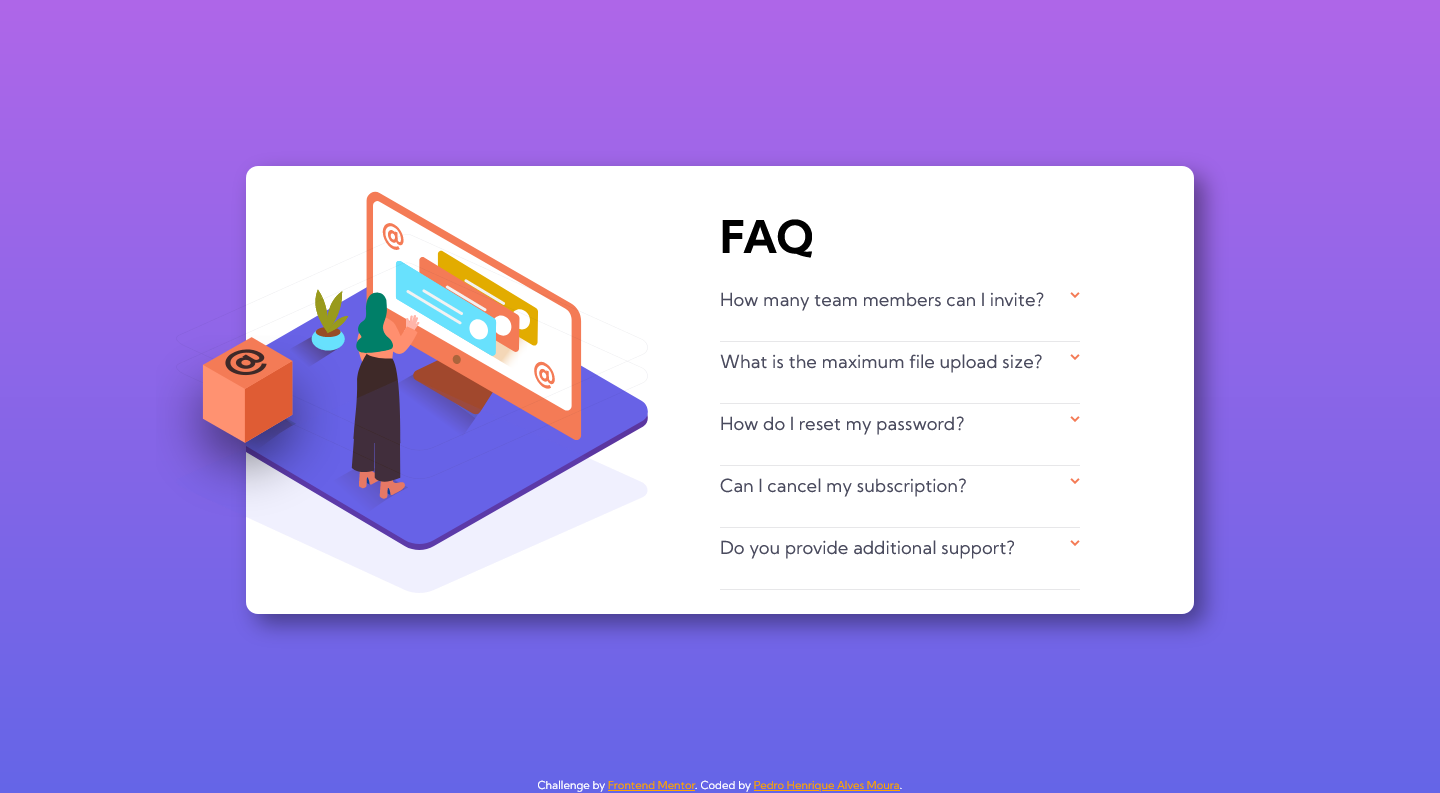
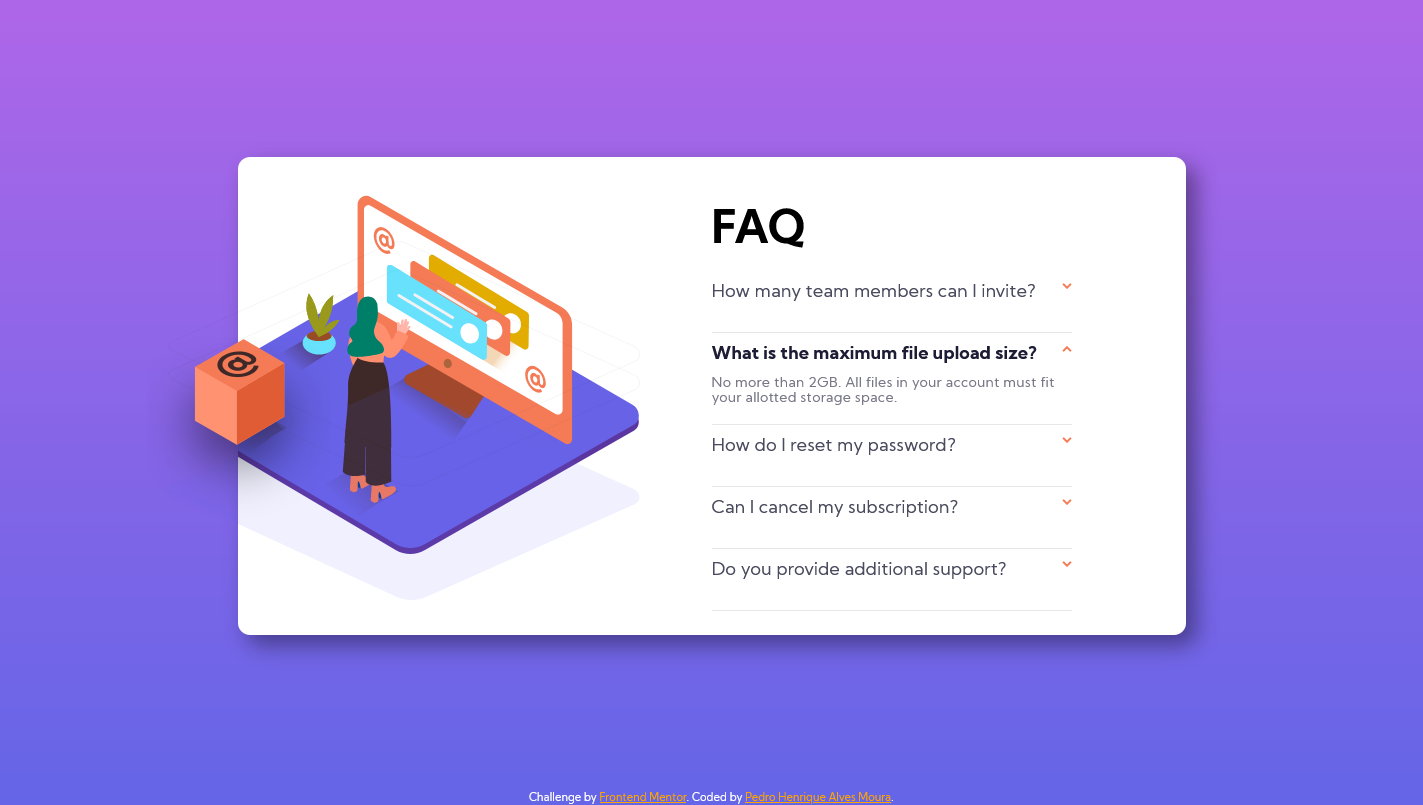
Adding the rotate effect on the arrow image

diff --git a/Javascript, HTML & CSS/faq-accordion-card-main/.history/css/style_20210613081340.css b/Javascript, HTML & CSS/faq-accordion-card-main/.history/css/style_20210613081340.css
@@ -25,7 +25,6 @@
     body {
         background: 
         linear-gradient(to bottom, var(--soft-violet), var(--soft-blue)) no-repeat;
-        background-size: cover;
         box-sizing: border-box;
         font-family: "Kumbh Sans", sans-serif;
     }
@@ -105,6 +104,10 @@
     .arrow {
         float: right;
     } 
+
+    label:hover .arrow {
+        transform: rotate(180deg);
+    }
     
 
     input[type="checkbox"] {        
@@ -132,10 +135,6 @@
         height: 30px;
         opacity: 1;
         transition: .3s;
-    }
-
-    input:checked ~ label .arrow {
-        transform: rotate(180deg);
     }
 
 

diff --git a/Javascript, HTML & CSS/faq-accordion-card-main/.history/css/style_20210613081341.css b/Javascript, HTML & CSS/faq-accordion-card-main/.history/css/style_20210613081341.css
@@ -25,7 +25,6 @@
     body {
         background: 
         linear-gradient(to bottom, var(--soft-violet), var(--soft-blue)) no-repeat;
-        background-size: cover;
         box-sizing: border-box;
         font-family: "Kumbh Sans", sans-serif;
     }
@@ -105,6 +104,10 @@
     .arrow {
         float: right;
     } 
+
+    label:hover .arrow {
+        transform: rotate(180deg);
+    }
     
 
     input[type="checkbox"] {        
@@ -132,10 +135,6 @@
         height: 30px;
         opacity: 1;
         transition: .3s;
-    }
-
-    input:checked ~ label .arrow {
-        transform: rotate(180deg);
     }
 
 

diff --git a/Javascript, HTML & CSS/faq-accordion-card-main/.history/css/style_20210613081313.css b/Javascript, HTML & CSS/faq-accordion-card-main/.history/css/style_20210613081313.css
@@ -25,7 +25,6 @@
     body {
         background: 
         linear-gradient(to bottom, var(--soft-violet), var(--soft-blue)) no-repeat;
-        background-size: cover;
         box-sizing: border-box;
         font-family: "Kumbh Sans", sans-serif;
     }
@@ -105,6 +104,10 @@
     .arrow {
         float: right;
     } 
+
+    label .arrow {
+        
+    }
     
 
     input[type="checkbox"] {        
@@ -132,10 +135,6 @@
         height: 30px;
         opacity: 1;
         transition: .3s;
-    }
-
-    input:checked ~ label .arrow {
-        transform: rotate(180deg);
     }
 
 

diff --git a/Javascript, HTML & CSS/faq-accordion-card-main/.history/css/style_20210613081314.css b/Javascript, HTML & CSS/faq-accordion-card-main/.history/css/style_20210613081314.css
@@ -25,7 +25,6 @@
     body {
         background: 
         linear-gradient(to bottom, var(--soft-violet), var(--soft-blue)) no-repeat;
-        background-size: cover;
         box-sizing: border-box;
         font-family: "Kumbh Sans", sans-serif;
     }
@@ -105,6 +104,10 @@
     .arrow {
         float: right;
     } 
+
+    label .arrow {
+        
+    }
     
 
     input[type="checkbox"] {        
@@ -132,10 +135,6 @@
         height: 30px;
         opacity: 1;
         transition: .3s;
-    }
-
-    input:checked ~ label .arrow {
-        transform: rotate(180deg);
     }
 
 

diff --git a/Javascript, HTML & CSS/faq-accordion-card-main/.history/css/style_20210613081320.css b/Javascript, HTML & CSS/faq-accordion-card-main/.history/css/style_20210613081320.css
@@ -25,7 +25,6 @@
     body {
         background: 
         linear-gradient(to bottom, var(--soft-violet), var(--soft-blue)) no-repeat;
-        background-size: cover;
         box-sizing: border-box;
         font-family: "Kumbh Sans", sans-serif;
     }
@@ -105,6 +104,10 @@
     .arrow {
         float: right;
     } 
+
+    label:hover .arrow {
+
+    }
     
 
     input[type="checkbox"] {        
@@ -132,10 +135,6 @@
         height: 30px;
         opacity: 1;
         transition: .3s;
-    }
-
-    input:checked ~ label .arrow {
-        transform: rotate(180deg);
     }
 
 

diff --git a/Javascript, HTML & CSS/faq-accordion-card-main/.history/css/style_20210613081311.css b/Javascript, HTML & CSS/faq-accordion-card-main/.history/css/style_20210613081311.css
@@ -25,7 +25,6 @@
     body {
         background: 
         linear-gradient(to bottom, var(--soft-violet), var(--soft-blue)) no-repeat;
-        background-size: cover;
         box-sizing: border-box;
         font-family: "Kumbh Sans", sans-serif;
     }
@@ -105,6 +104,8 @@
     .arrow {
         float: right;
     } 
+
+    label .arrow {}
     
 
     input[type="checkbox"] {        
@@ -132,10 +133,6 @@
         height: 30px;
         opacity: 1;
         transition: .3s;
-    }
-
-    input:checked ~ label .arrow {
-        transform: rotate(180deg);
     }
 
 

diff --git a/Javascript, HTML & CSS/faq-accordion-card-main/.history/css/style_20210613081303.css b/Javascript, HTML & CSS/faq-accordion-card-main/.history/css/style_20210613081303.css
@@ -25,7 +25,6 @@
     body {
         background: 
         linear-gradient(to bottom, var(--soft-violet), var(--soft-blue)) no-repeat;
-        background-size: cover;
         box-sizing: border-box;
         font-family: "Kumbh Sans", sans-serif;
     }
@@ -105,6 +104,8 @@
     .arrow {
         float: right;
     } 
+
+    label .arrow
     
 
     input[type="checkbox"] {        
@@ -132,10 +133,6 @@
         height: 30px;
         opacity: 1;
         transition: .3s;
-    }
-
-    input:checked ~ label .arrow {
-        transform: rotate(180deg);
     }
 
 

diff --git a/Javascript, HTML & CSS/faq-accordion-card-main/.history/css/style_20210613081252.css b/Javascript, HTML & CSS/faq-accordion-card-main/.history/css/style_20210613081252.css
@@ -25,7 +25,6 @@
     body {
         background: 
         linear-gradient(to bottom, var(--soft-violet), var(--soft-blue)) no-repeat;
-        background-size: cover;
         box-sizing: border-box;
         font-family: "Kumbh Sans", sans-serif;
     }
@@ -102,7 +101,7 @@
         transition: .3s;
     }
 
-    .arrow {
+    label .arrow {
         float: right;
     } 
     
@@ -132,10 +131,6 @@
         height: 30px;
         opacity: 1;
         transition: .3s;
-    }
-
-    input:checked ~ label .arrow {
-        transform: rotate(180deg);
     }
 
 

diff --git a/Javascript, HTML & CSS/faq-accordion-card-main/.history/css/style_20210611143656.css b/Javascript, HTML & CSS/faq-accordion-card-main/.history/css/style_20210611143656.css
@@ -25,7 +25,6 @@
     body {
         background: 
         linear-gradient(to bottom, var(--soft-violet), var(--soft-blue)) no-repeat;
-        background-size: cover;
         box-sizing: border-box;
         font-family: "Kumbh Sans", sans-serif;
     }
@@ -132,10 +131,6 @@
         height: 30px;
         opacity: 1;
         transition: .3s;
-    }
-
-    input:checked ~ label .arrow {
-        transform: rotate(180deg);
     }
 
 

diff --git a/Javascript, HTML & CSS/faq-accordion-card-main/.history/css/style_20210613081406.css b/Javascript, HTML & CSS/faq-accordion-card-main/.history/css/style_20210613081406.css
@@ -25,7 +25,6 @@
     body {
         background: 
         linear-gradient(to bottom, var(--soft-violet), var(--soft-blue)) no-repeat;
-        background-size: cover;
         box-sizing: border-box;
         font-family: "Kumbh Sans", sans-serif;
     }
@@ -132,10 +131,6 @@
         height: 30px;
         opacity: 1;
         transition: .3s;
-    }
-
-    input:checked ~ label .arrow {
-        transform: rotate(180deg);
     }
 
 

diff --git a/Javascript, HTML & CSS/faq-accordion-card-main/.history/css/style_20210613081441.css b/Javascript, HTML & CSS/faq-accordion-card-main/.history/css/style_20210613081441.css
@@ -25,7 +25,6 @@
     body {
         background: 
         linear-gradient(to bottom, var(--soft-violet), var(--soft-blue)) no-repeat;
-        background-size: cover;
         box-sizing: border-box;
         font-family: "Kumbh Sans", sans-serif;
     }
@@ -134,7 +133,7 @@
         transition: .3s;
     }
 
-    input:checked ~ label .arrow {
+    input:checked ~ .arrow {
         transform: rotate(180deg);
     }
 

diff --git a/Javascript, HTML & CSS/faq-accordion-card-main/.history/css/style_20210613081425.css b/Javascript, HTML & CSS/faq-accordion-card-main/.history/css/style_20210613081425.css
@@ -25,7 +25,6 @@
     body {
         background: 
         linear-gradient(to bottom, var(--soft-violet), var(--soft-blue)) no-repeat;
-        background-size: cover;
         box-sizing: border-box;
         font-family: "Kumbh Sans", sans-serif;
     }
@@ -134,7 +133,7 @@
         transition: .3s;
     }
 
-    input:checked ~ label .arrow {
+    label:checked .arrow {
         transform: rotate(180deg);
     }
 
